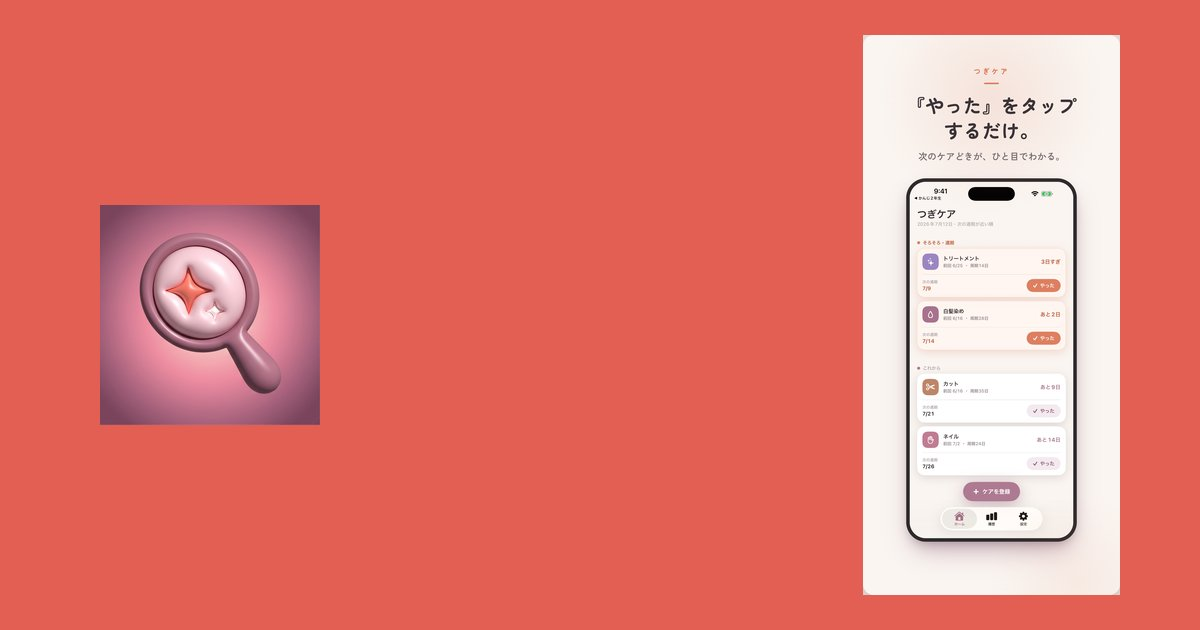
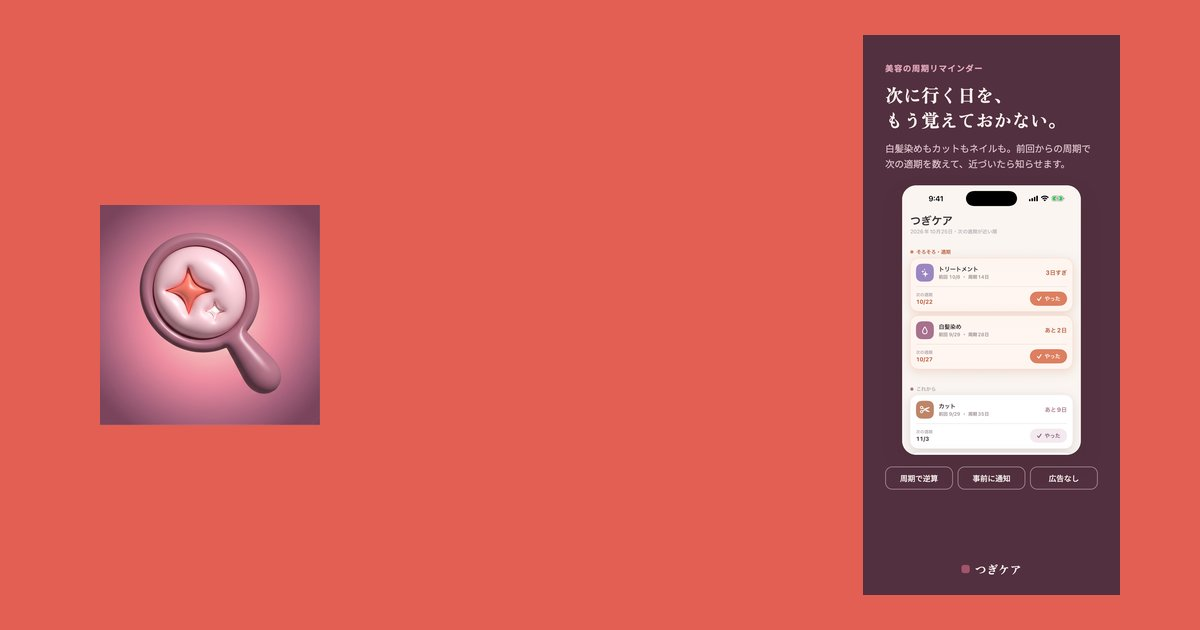
lp: つぎケア 1.0.2 のストア掲載画像刷新を反映

Changed region(s): [[0.7092, 0.0302, 0.9558, 0.9651]]

diff --git a/tsugicare/index.html b/tsugicare/index.html
@@ -116,6 +116,7 @@ footer .notice{font-size:11.5px;margin-top:10px}
 <figure class="shot"><img src="img/ss-04.jpg" alt="つぎケア の画面 4" loading="lazy" width="540"></figure>
 <figure class="shot"><img src="img/ss-05.jpg" alt="つぎケア の画面 5" loading="lazy" width="540"></figure>
 <figure class="shot"><img src="img/ss-06.jpg" alt="つぎケア の画面 6" loading="lazy" width="540"></figure>
+<figure class="shot"><img src="img/ss-07.jpg" alt="つぎケア の画面 7" loading="lazy" width="540"></figure>
   </div>
 </div></section>
 
